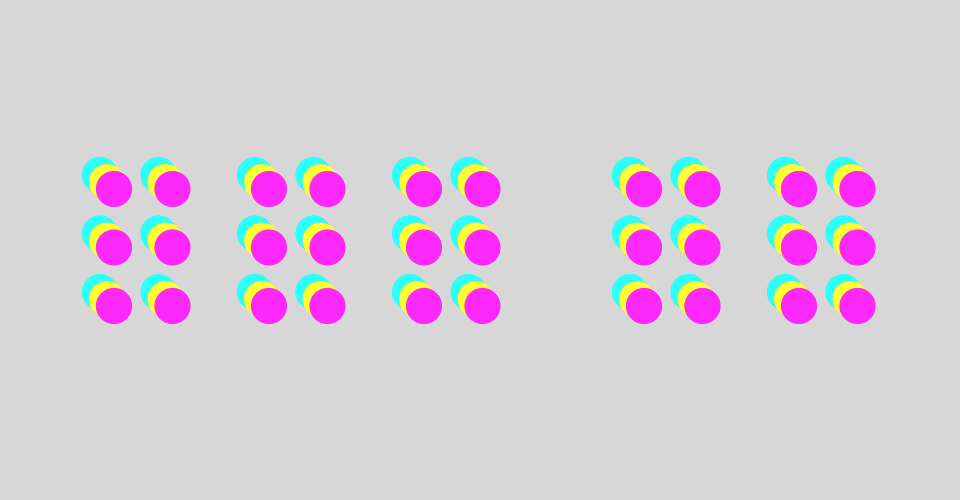
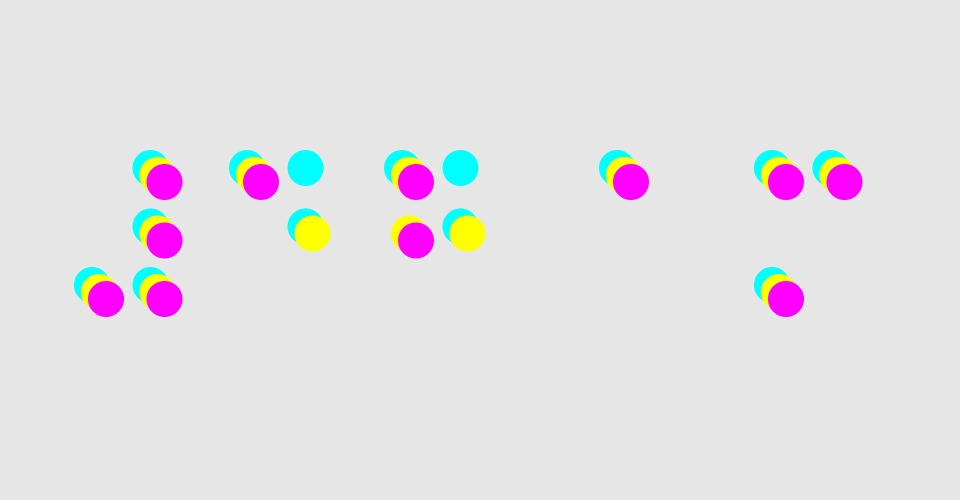
Clock Working
The Clock is working fine now and just needs an alarm set up.

diff --git a/clock.js b/clock.js
@@ -1,6 +1,12 @@
+//These variables represent the conventions set by the Braille Authority.
+//However they have been scaled and are represented as pixels
+var dotSize = 36; //1.44mm Dot Size
+var dotSpace = 58.5; //2.34mm Space between Dots
+var cellSpace = 155; //6.1mm Space between Cells
+
 /*
  * us p5.js to draw a clock on a 960x500 canvas
- */ 
+ */
 function draw_clock(obj) {
     // draw your own clock here based on the values of obj:
     //    obj.hours goes from 0-23
@@ -12,23 +18,241 @@ function draw_clock(obj) {
     //        = 0 if the alarm is currently going off
     //        > 0 --> the number of seconds until alarm should go off
 
+    //Sets variables for colours so they can easily be called upon later.
+    var cyan = color(0, 255, 255);
+    var yellow = color(255, 255, 0);
+    var magenta = color(255, 0, 255);
+
+    //Set for me by the existing code. The time.
     let hours = obj.hours;
     let minutes = obj.minutes;
     let seconds = obj.seconds;
     let millis = obj.millis;
 
-    background(200);
+    //Makes a variable to be controlled by the layers and used by the Braille Cells.
+    let timer = seconds;
 
+    background(230); // light gray background.
+    strokeWeight(0); // Stroke weight to 0 pixels.
 
-    if(hours == 15){
-    	drawThree(20,30);
+    //Loops all the code into 3 different layers for the clock.
+    for(let layer = 0; layer<3; layer++){
+        //Sets all the colours for the layers dependant on the layer.
+        if (layer == 0){
+            fill (cyan);
+        } else if (layer == 1){
+            fill (yellow);
+        }
+        else {
+            fill (magenta);
+        }
+
+        //Syncs the layers and timer variables so each layer represents a different time.
+        if (layer == 0){
+            timer = seconds;
+        } else if (layer == 1){
+            timer = minutes;
+        }
+        else {
+            timer = hours;
+        }
+
+        //Controls the Ones column on the numbers. Split between the 0-59 format and the
+        //1-12 format as they can't be coded the same on a AM/PM clock.
+        if (layer <= 1){
+            push();
+            translate(402, 168);
+            if((timer == 1)||(timer == 11)||(timer == 21)||(timer == 31)||(timer == 41)||(timer == 51)){
+                drawA1();
+            } else if((timer == 2)||(timer == 12)||(timer == 22)||(timer == 32)||(timer == 42)||(timer == 52)){
+                draw2();
+            } else if((timer == 3)||(timer == 13)||(timer == 23)||(timer == 33)||(timer == 43)||(timer == 53)){
+                draw3();
+            } else if((timer == 4)||(timer == 14)||(timer == 24)||(timer == 34)||(timer == 44)||(timer == 54)){
+                draw4();
+            } else if((timer == 5)||(timer == 15)||(timer == 25)||(timer == 35)||(timer == 45)||(timer == 55)){
+                draw5();
+            } else if((timer == 6)||(timer == 16)||(timer == 26)||(timer == 36)||(timer == 46)||(timer == 56)){
+                draw6();
+            } else if((timer == 7)||(timer == 17)||(timer == 27)||(timer == 37)||(timer == 47)||(timer == 57)){
+                draw7();
+            } else if((timer == 8)||(timer == 18)||(timer == 28)||(timer == 38)||(timer == 48)||(timer == 58)){
+                draw8();
+            } else if((timer == 9)||(timer == 19)||(timer == 29)||(timer == 39)||(timer == 49)||(timer == 59)){
+                draw9();
+            } else if((timer == 0)||(timer == 10)||(timer == 20)||(timer == 30)||(timer == 40)||(timer == 50)){
+                draw0();
+            }
+            pop();
+        }
+        else {
+            push();
+            translate(402, 168);
+            if((timer == 1)||(timer == 11)||(timer == 13)||(timer == 23)){
+                drawA1();
+            } else if((timer == 2)||(timer == 12)||(timer == 14)||(timer == 0)){
+                draw2();
+            } else if((timer == 3)||(timer == 15)){
+                draw3();
+            } else if((timer == 4)||(timer == 16)){
+                draw4();
+            } else if((timer == 5)||(timer == 17)){
+                draw5();
+            } else if((timer == 6)||(timer == 18)){
+                draw6();
+            } else if((timer == 7)||(timer == 19)){
+                draw7();
+            } else if((timer == 8)||(timer == 20)){
+                draw8();
+            } else if((timer == 9)||(timer == 21)){
+                draw9();
+            } else if((timer == 10)||(timer == 22)){
+                draw0();
+            }
+            pop();
+        }
+
+        //Controls the Tens column on the numbers. Same formatting as above, but this time hours is only 0 and 1.
+        if (layer <= 1){
+            push();
+            translate(247, 168);
+            if((timer == 1)||(timer == 2)||(timer == 3)||(timer == 4)||(timer == 5)
+            ||(timer == 6)||(timer == 7)||(timer == 8)||(timer == 9)||(timer == 0)){
+                draw0();
+            } else if((timer == 11)||(timer == 12)||(timer == 13)||(timer == 14)||(timer == 15)
+            ||(timer == 16)||(timer == 17)||(timer == 18)||(timer == 19)||(timer == 10)){
+                drawA1();
+            } else if((timer == 21)||(timer == 22)||(timer == 23)||(timer == 24)||(timer == 25)
+            ||(timer == 26)||(timer == 27)||(timer == 28)||(timer == 29)||(timer == 20)){
+                draw2();
+            } else if((timer == 31)||(timer == 32)||(timer == 33)||(timer == 34)||(timer == 35)
+            ||(timer == 36)||(timer == 37)||(timer == 38)||(timer == 39)||(timer == 30)){
+                draw3();
+            } else if((timer == 41)||(timer == 42)||(timer == 43)||(timer == 44)||(timer == 45)
+            ||(timer == 46)||(timer == 47)||(timer == 48)||(timer == 49)||(timer == 40)){
+                draw4();
+            } else if((timer == 51)||(timer == 52)||(timer == 53)||(timer == 54)||(timer == 55)
+            ||(timer == 56)||(timer == 57)||(timer == 58)||(timer == 59)||(timer == 50)){
+                draw5();
+            }
+            pop();
+        }
+        else {
+            push();
+            translate(247, 168);
+            if ((timer == 1)||(timer == 2)||(timer == 3)||(timer == 4)||(timer == 5)||(timer == 6)
+            ||(timer == 7)||(timer == 8)||(timer == 9)||(timer == 13)||(timer == 14)||(timer == 15)
+            ||(timer == 16)||(timer == 17)||(timer == 18)||(timer == 19)||(timer == 20)||(timer == 21)){
+                draw0();
+            } else if((timer == 10)||(timer == 11)||(timer == 12)||(timer == 22)||(timer == 23)||(timer == 0)){
+                drawA1();
+            }
+            pop();
+        }
+
+        //The easier Braille Cells with less variables than the numbered cells.
+
+        //Calls the Draw Number Indicator Function.
+        push();
+        translate(92, 168);
+        drawN();
+        pop();
+
+        //Changes the A in AM to P or vice versa depending on the time of the day.
+        push(); 
+        translate(617, 168);
+        if(hours <= 12){
+            drawA1();
+        } else {
+            drawP();
+        }
+        pop();
+
+        //Calls the Draw M function.
+        push();
+        translate(772, 168);
+        drawM();
+        pop();
+
+        //Translates ever so slightly so you can see each layer.
+        translate(7, 7);
     }
-
-
 }
 
+//Braille "Fonts"
 
-function drawThree(x, y){
-	fill(0);
-	ellipse(x,y, 100,100);
+//AM and the Number 1 draw function.
+function drawA1(){
+	ellipse(0, 0, dotSize, dotSize);
+}
+//PM draw function.
+function drawP(){
+    ellipse(0, 0, dotSize, dotSize);
+    ellipse(dotSpace, 0, dotSize, dotSize);
+    ellipse(0, dotSpace, dotSize, dotSize);
+    ellipse(0, 2*dotSpace, dotSize, dotSize);
+}
+//Draws the M for the AM and PM draw functions.
+function drawM(){
+    ellipse(0, 0, dotSize, dotSize);
+    ellipse(dotSpace, 0, dotSize, dotSize);
+    ellipse(0, 2*dotSpace, dotSize, dotSize);
+}
+//Draws the Number Indicator.
+function drawN(){
+    ellipse(dotSpace, dotSpace, dotSize, dotSize);
+    ellipse(dotSpace, 0, dotSize, dotSize);
+    ellipse(dotSpace, 2*dotSpace, dotSize, dotSize);
+    ellipse(0, 2*dotSpace, dotSize, dotSize);
+}
+//Draws the Number 2
+function draw2(){
+    ellipse(0, 0, dotSize, dotSize);
+    ellipse(0, dotSpace, dotSize, dotSize);
+}
+//Draws the Number 3
+function draw3(){
+    ellipse(0, 0, dotSize, dotSize);
+    ellipse(dotSpace, 0, dotSize, dotSize);
+}
+//Draws the Number 3
+function draw4(){
+    ellipse(0, 0, dotSize, dotSize);
+    ellipse(dotSpace, 0, dotSize, dotSize);
+    ellipse(dotSpace, dotSpace, dotSize, dotSize);
+}
+//Draws the Number 4
+function draw5(){
+    ellipse(0, 0, dotSize, dotSize);
+    ellipse(dotSpace, dotSpace, dotSize, dotSize);
+}
+//Draws the Number 5
+function draw6(){
+    ellipse(0, 0, dotSize, dotSize);
+    ellipse(dotSpace, 0, dotSize, dotSize);
+    ellipse(0, dotSpace, dotSize, dotSize);
+}
+//Draws the Number 6
+function draw7(){
+    ellipse(0, 0, dotSize, dotSize);
+    ellipse(dotSpace, 0, dotSize, dotSize);
+    ellipse(0, dotSpace, dotSize, dotSize);
+    ellipse(dotSpace, dotSpace, dotSize, dotSize);
+}
+//Draws the Number 7
+function draw8(){
+    ellipse(0, 0, dotSize, dotSize);
+    ellipse(0, dotSpace, dotSize, dotSize);
+    ellipse(dotSpace, dotSpace, dotSize, dotSize);
+}
+//Draws the Number 8
+function draw9(){
+    ellipse(dotSpace, 0, dotSize, dotSize);
+    ellipse(0, dotSpace, dotSize, dotSize);
+}
+//Draws the Number 9
+function draw0(){
+    ellipse(dotSpace, 0, dotSize, dotSize);
+    ellipse(0, dotSpace, dotSize, dotSize);
+    ellipse(dotSpace, dotSpace, dotSize, dotSize);
 }

diff --git a/clock1.js b/clock1.js
@@ -31,7 +31,7 @@ function draw () {
 	//Creates TEMPLATE circles (WILL BE DELETED!!! Just used to help guide the actual code)
 
 	//Creates Layers for colour changes, dependant on the variable "layer"
-	for (let layer = 0; layer<3; layer++){
+	for (let layer = 0; layer<2; layer++){
 		if (layer == 0){
 			fill (cyan);
 		} else if (layer == 1){

diff --git a/README.md b/README.md
@@ -1,10 +1,13 @@
 ## PS1 MDDN 242 2017
 
-### Template is Set up & Note for what to do next
+### Clock Working, No Alarm
 
-So this is the vague idea of what the clock would look like with absolutely all of the 
-dots active at once. This is obviously subject to change but the general idea is still 
-there. 
+The Code is pretty full but I couldn't think of a way around the multiple 
+conditional statements I have. But is working perfectly and the numbers are 
+all lined up properly. Not that anyone would know the difference tbh. I can 
+almost read the clock now, enough at least to know the all the numbers are 
+working correctly. 
 
-My next steps will be obviously finding a way to animate it in such a way the the braille
-numbers appear.
+Now all I need to do is make an alarm which I will need to adjust my code 
+probably pretty significantly to get it working however. So hopefully going 
+to be doing that today to get a final copy.
